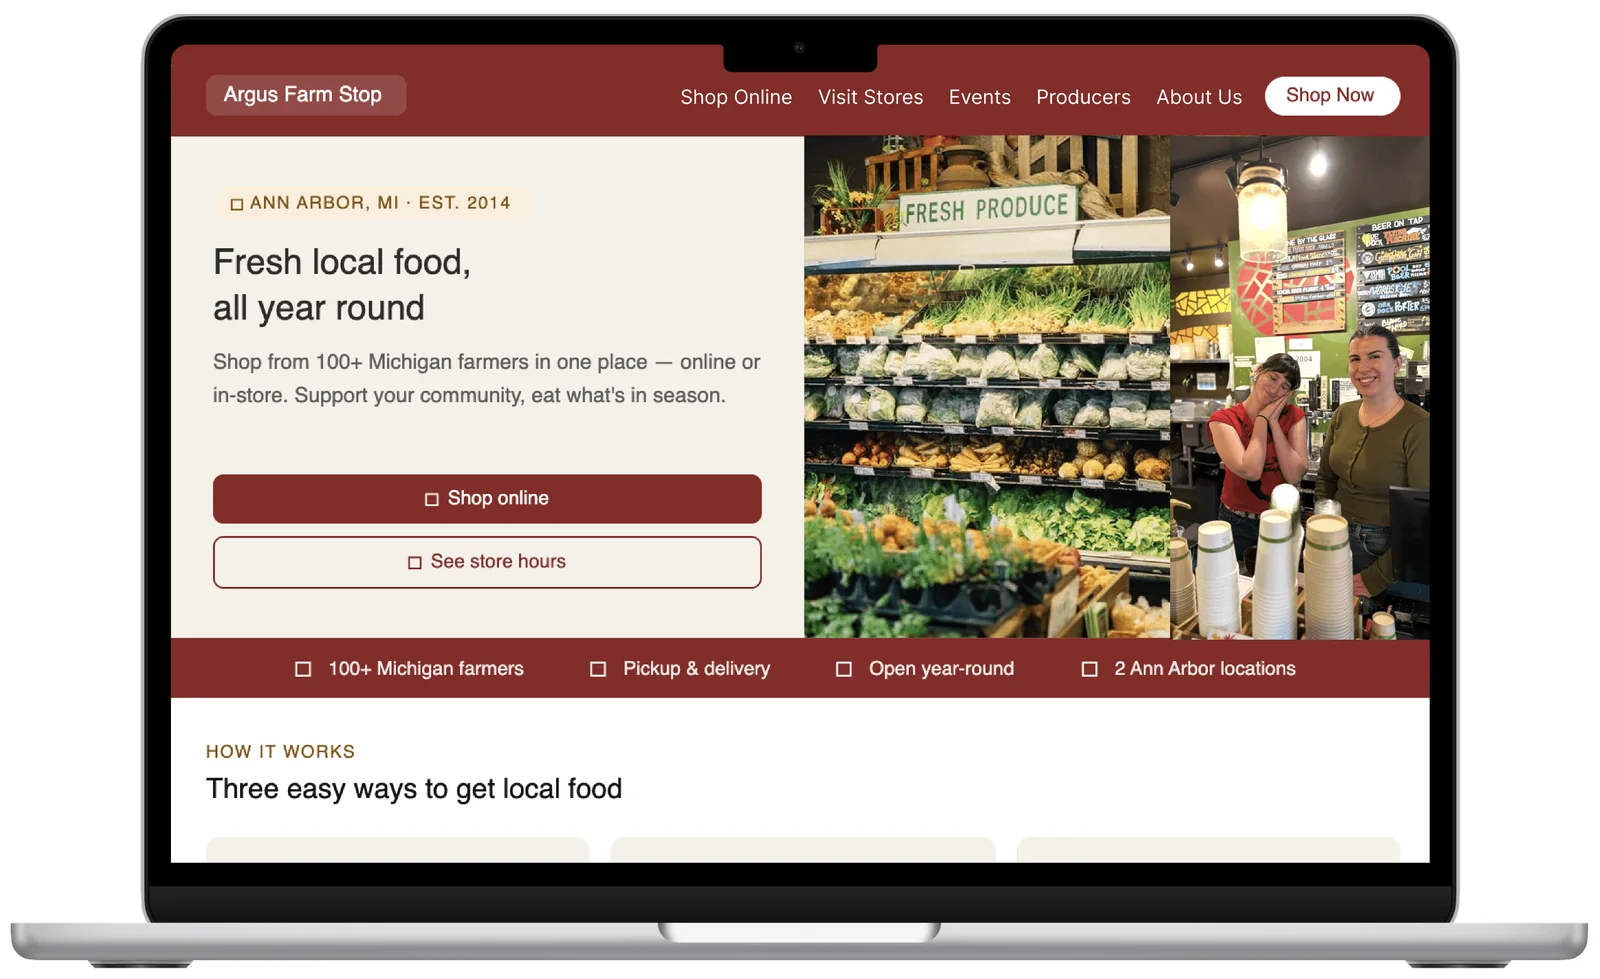
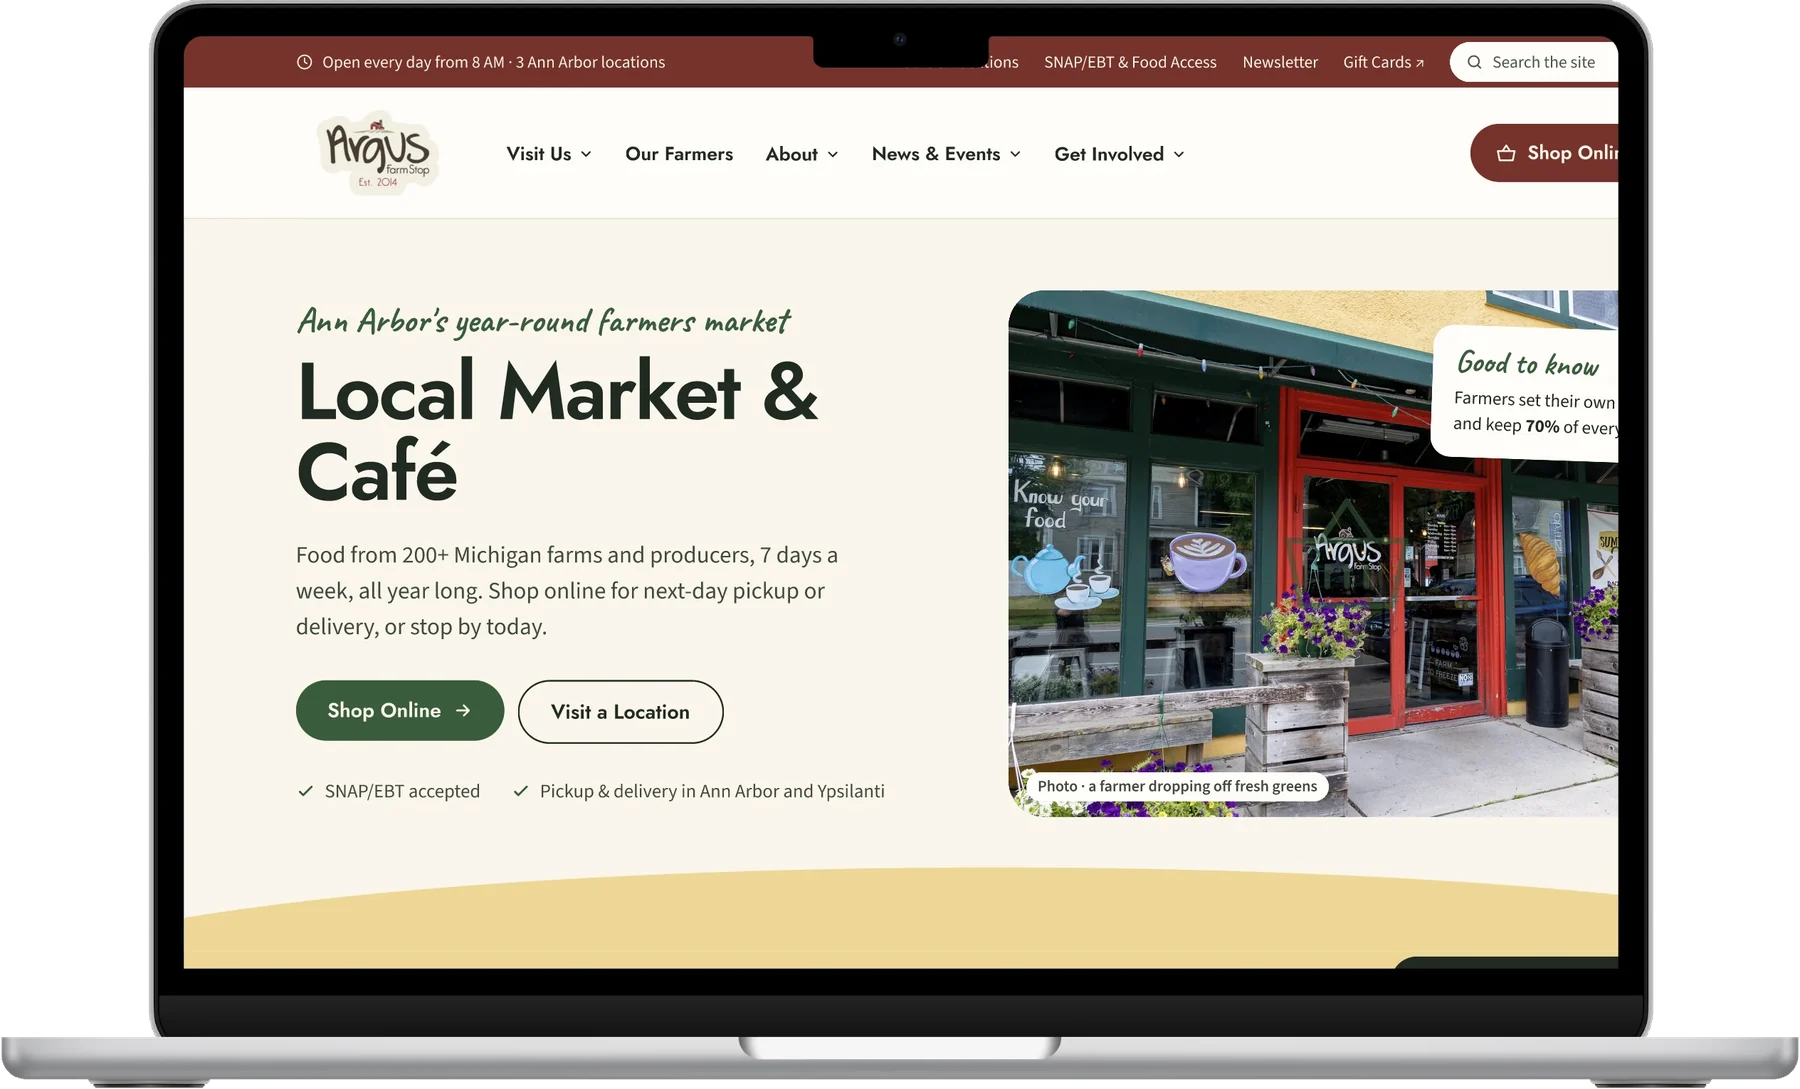
Argus: new homepage mockup on a see-through background
The laptop sits straight on the paper (no black backdrop, no white mat);
alt text and caption describe the new design (200+ farms).

Claude-Session: https://claude.ai/code/session_01BJMedRvjP4BX5nhiHvoeS7

diff --git a/argus.html b/argus.html
@@ -74,7 +74,7 @@
   </header>
 
   <div class="wrap">
-    <figure class="shot cs-shot-cover"><span class="shot-mat"><img src="images/argus-redesign.webp" alt="My redesigned Argus Farm Stop landing page on a laptop: the headline 'Fresh local food, all year round,' a line about shopping from 100+ Michigan farmers online or in-store, Shop online and See store hours buttons, photos of the produce shelves and two smiling staff, and a strip listing 100+ Michigan farmers, pickup and delivery, open year-round and 2 Ann Arbor locations." width="1600" height="979" loading="lazy"></span><figcaption>My landing-page redesign from the class project: what Argus is, why it's worth choosing, and what to expect when you get there</figcaption></figure>
+    <figure class="shot cs-shot-cover device-shot"><img src="images/argus-redesign.webp" alt="My redesigned Argus Farm Stop homepage on a laptop: &#39;Ann Arbor&#39;s year-round farmers market&#39; above the headline &#39;Local Market &amp; Café,&#39; a line about food from 200+ Michigan farms and producers seven days a week, Shop Online and Visit a Location buttons, notes that SNAP/EBT is accepted and pickup and delivery reach Ann Arbor and Ypsilanti, and a photo of the Argus storefront." width="1800" height="1089" loading="lazy"><figcaption>My redesigned Argus homepage: what Argus is, why it&#39;s worth choosing, and what to expect when you get there</figcaption></figure>
     <dl class="cs-meta">
       <div><dt>Role</dt><dd>UX researcher and designer: usability audit, competitive analysis, journey map, redesign</dd></div>
       <div><dt>Timeline</dt><dd>August to December 2025 class project · redesign continuing in fall 2026</dd></div>

diff --git a/css/site.css b/css/site.css
@@ -1093,3 +1093,6 @@ img.seal { display: block; object-fit: contain; }
 .lm-flyers .shot-pair { grid-template-columns: 1fr 1fr; align-items: end; }
 .shot-pair.stack { grid-template-columns: 1fr; gap: clamp(28px, 4vw, 44px); }
 .persona-fig + .persona-fig { margin-top: clamp(28px, 4vw, 44px); }
+
+/* a device mockup with a see-through background sits straight on the paper */
+.device-shot img { display: block; width: 100%; height: auto; filter: drop-shadow(0 18px 26px rgba(30, 36, 42, .18)); }
